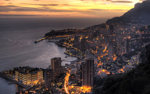
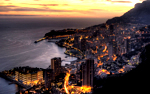
Added explanation for creating TopUp Added more contrast to several thumbnails and photos

diff --git a/public/stylesheets/common.css b/public/stylesheets/common.css
@@ -162,14 +162,15 @@
   margin-left: 20px;
 }
 
-h1.what_is_top_up         { background-image: url(/images/text/h1-what_is_top_up.jpg);         }
-h1.some_examples          { background-image: url(/images/text/h1-some_examples.jpg);          }
-h1.how_to_use             { background-image: url(/images/text/h1-how_to_use.jpg);             }
-h1.support_or_feedback    { background-image: url(/images/text/h1-support_or_feedback.jpg);    }
-h1.under_construction     { background-image: url(/images/text/h1-under_construction.jpg);     }
-h2.get_the_latest_version { background-image: url(/images/text/h2-get_the_latest_version.jpg); }
-h2.about_me               { background-image: url(/images/text/h2-about_me.jpg);               }
-h2.source_at_github			  { background-image: url(/images/text/h2-source_at_github.jpg);			 }
-h2.license                { background-image: url(/images/text/h2-license.jpg);                }
-h2.links                  { background-image: url(/images/text/h2-links.jpg);                  }
-a.download_top_up         { background-image: url(/images/text/a-download_top_up.jpg);         }
+h1.what_is_top_up                    { background-image: url(/images/text/h1-what_is_top_up.jpg);                    }
+h1.why_another_lightbox_like_library { background-image: url(/images/text/h1-why_another_lightbox_like_library.jpg); }
+h1.some_examples                     { background-image: url(/images/text/h1-some_examples.jpg);                     }
+h1.how_to_use                        { background-image: url(/images/text/h1-how_to_use.jpg);                        }
+h1.support_or_feedback               { background-image: url(/images/text/h1-support_or_feedback.jpg);               }
+h1.under_construction                { background-image: url(/images/text/h1-under_construction.jpg);                }
+h2.get_the_latest_version            { background-image: url(/images/text/h2-get_the_latest_version.jpg);            }
+h2.about_me                          { background-image: url(/images/text/h2-about_me.jpg);                          }
+h2.source_at_github			             { background-image: url(/images/text/h2-source_at_github.jpg);			             }
+h2.license                           { background-image: url(/images/text/h2-license.jpg);                           }
+h2.links                             { background-image: url(/images/text/h2-links.jpg);                             }
+a.download_top_up                    { background-image: url(/images/text/a-download_top_up.jpg);                    }
